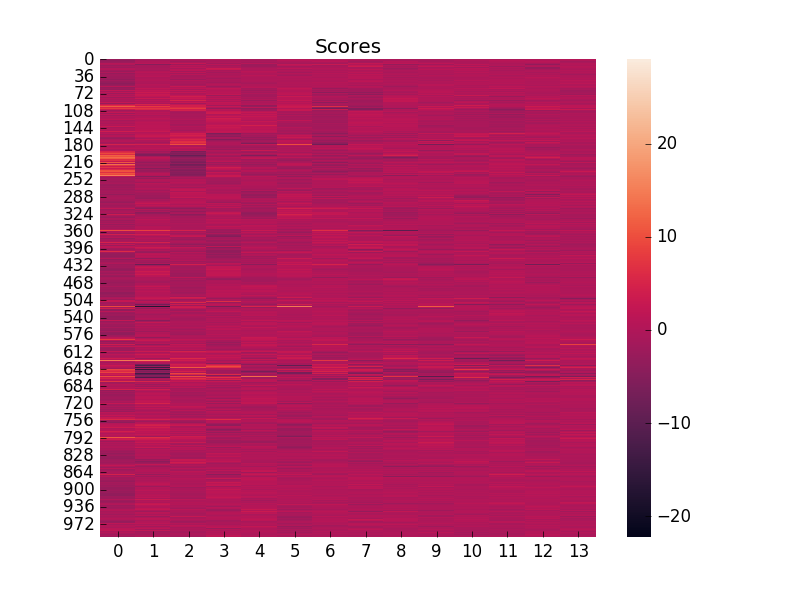
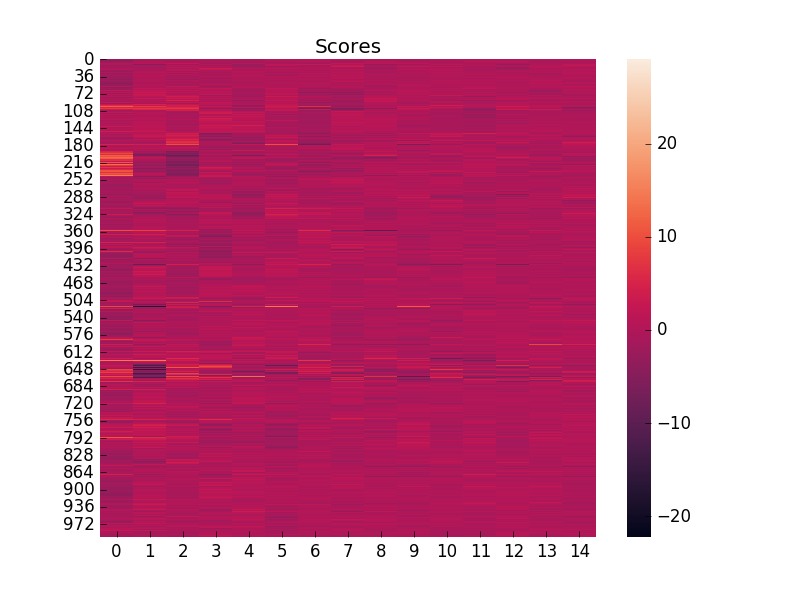
lab 2 finished

diff --git a/Lab2/Analize/decomposition.py b/Lab2/Analize/decomposition.py
@@ -18,7 +18,7 @@ class DimRed:
         self.sample = StandardScaler().fit_transform(sample)
 
     def covariances_matrix(self):
-        return self.sample.T*self.sample/((len(self.sample[0]))-1)
+        return self.sample.T * self.sample / ((len(self.sample[0])) - 1)
 
     def svd(self):
         u, s, v = np.linalg.svd(self.sample.T)
@@ -61,8 +61,8 @@ class DimRed:
         print(calculate_loadings(pca))
         # principal components scores
         eigen_vectors = pd.DataFrame(pca.components_.T)
-        #print(eigen_vectors)
-        #draw_heatmap(eigen_vectors, "PCA eigenvectors (svd)")
+        # print(eigen_vectors)
+        draw_heatmap(eigen_vectors, "PCA eigenvectors (svd)")
 
         print(pca.components_)
         pca_res = pca.fit_transform(list(self.sample))
@@ -79,14 +79,24 @@ class DimRed:
     def fa(self, n):
         fa = FactorAnalysis(n_components=n)
         fa.fit(self.sample)
-        print('fa_components: ',fa.components_)
+        m = fa.components_
+        factors = pd.DataFrame(fa.components_.T)
+        draw_heatmap(factors, "Factor analysis")
+        m1 = m**2
+        m2 = np.sum(m1,axis=1)
+        nn = fa.noise_variance_
+        for i in range(n):
+            print("component "+str(i) + ": "+ str((100*m2[i])/(np.sum(m2)+np.sum(nn))))
+
+        print('fa_components: ', fa.components_)
         fa = FactorAnalyzer()
         fa.analyze(pd.DataFrame(data=self.sample),
                    n_factors=n,
-                   method='minres')
+                   method='maxres')
+        print(fa.get_factor_variance())
         draw_heatmap(fa.loadings, "Loadings")
 
-    def variance_explained(self, num_comp = 20):
+    def variance_explained(self, num_comp=20):
         # covariance matrix
         cov_mat = np.cov(self.sample.T)
         eig_vals, eig_vecs = np.linalg.eig(cov_mat)
@@ -99,5 +109,11 @@ class DimRed:
         # draw_heatmap(s.T, "PCA eigenvectors (svd)")
         tot = sum(eig_vals)
         var_exp = [(i / tot) * 100 for i in sorted(eig_vals, reverse=True)]
+        cum_var_exp = np.cumsum(var_exp)
+        print("Explained variance with eigendecomposition")
+        # plot_explained_variance(var_exp, cum_var_exp, num_comp)
+        print("Explained variance with svd")
+        tot = sum(s)
+        var_exp = [(i / tot) * 100 for i in sorted(s, reverse=True)]
         cum_var_exp = np.cumsum(var_exp)
         plot_explained_variance(var_exp, cum_var_exp, num_comp)

diff --git a/Lab2/main.py b/Lab2/main.py
@@ -27,7 +27,7 @@ def main():
 
     optimal = red.select_num_comp(40)
     # red.svd()
-    red.variance_explained()
+    # red.variance_explained(optimal)
     # red.pca_svd(optimal)
     # red.spectral_emb(optimal)
     red.fa(optimal)
